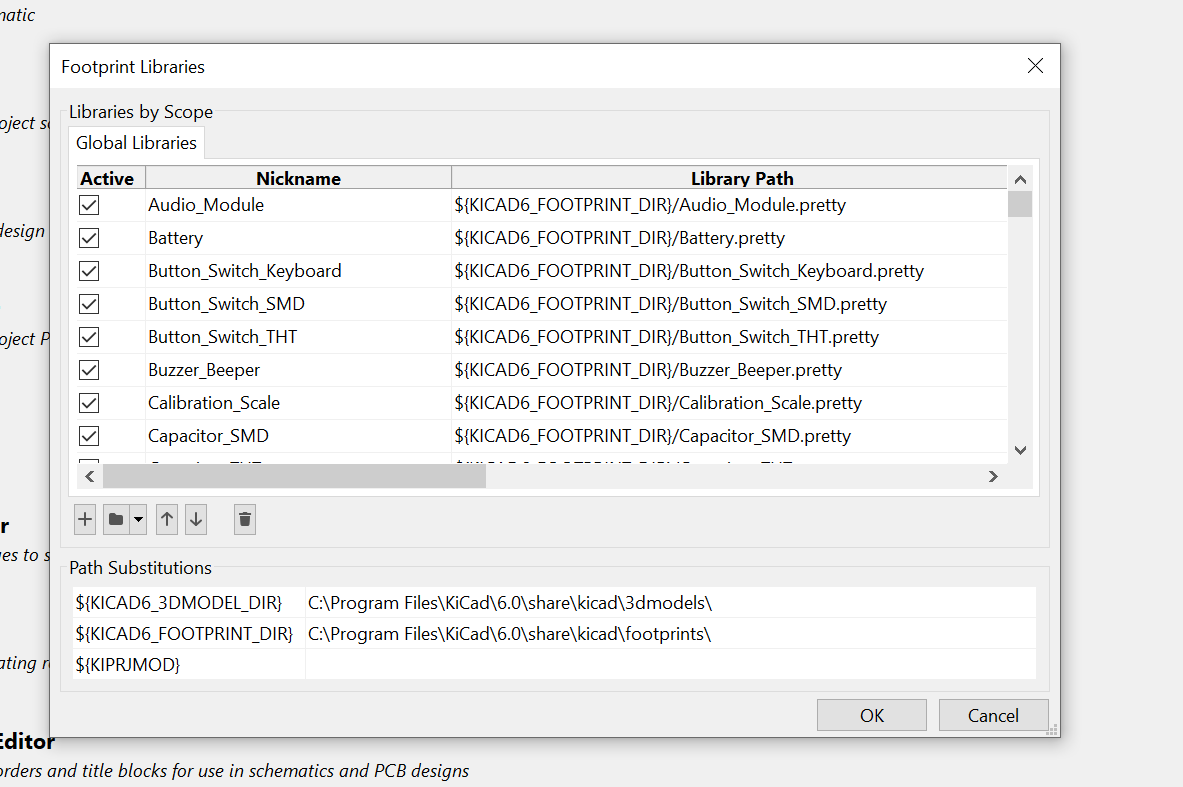
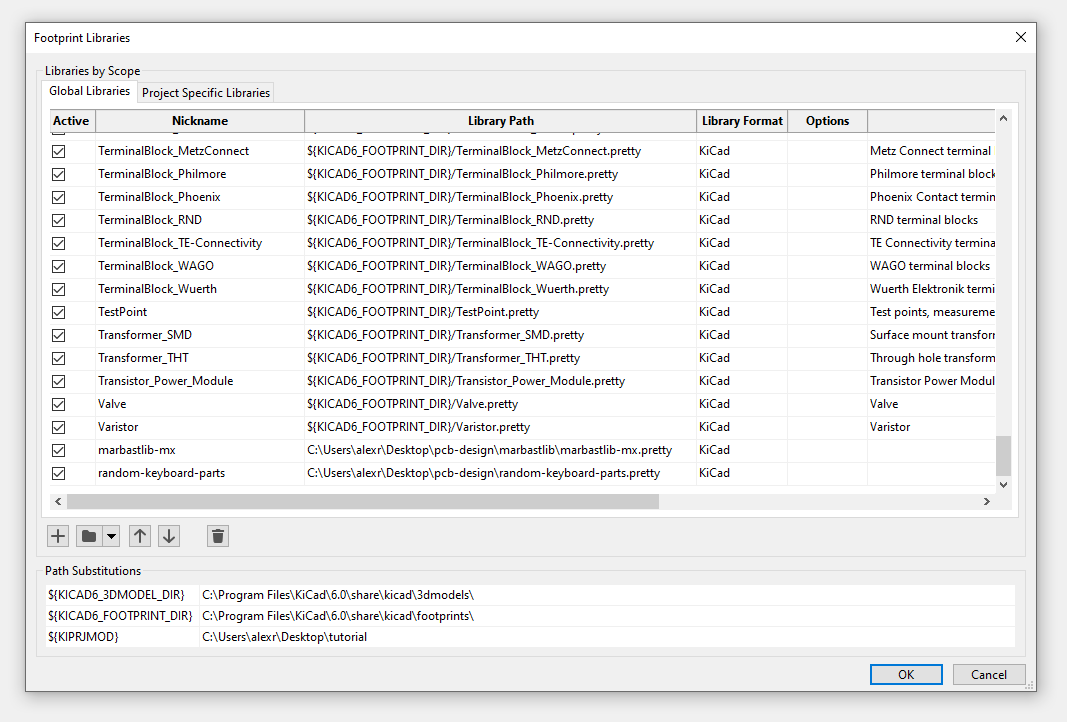
schematic setction 50% ish complete

Changed region(s): [[0.0, 0.0, 0.9897, 1.0]]

diff --git a/README.md b/README.md
@@ -7,9 +7,9 @@ I am focusing on Cherry MX type switches, however using other types should be pr
 
 This tutorial uses KiCad. It's a PCB and electronic schematic creator. Install the latest version of KiCad from this website [here](https://www.kicad.org/download). I am using version 6.0.7.
 
-A great way of saving your data, make backups, and easily swap between versions is to make a Github repository where the KiCad files will be saved on. You've most likely made an account and use Github already, but if not, make an account and [install Git](https://git-scm.com/downloads). Github also makes it easy to install libraries that we can use for KiCad.
+A great way of saving your data, make backups, and easily swap between versions is to make a Github repository where the KiCad files will be saved on. You've most likely made an account and use Github already, but if not, make an account and [install Git](https://git-scm.com/downloads). Github also makes it easy to install libraries that we use for KiCad.
 
-Make a repository , and press the `Code` button on the top right and download the zip (or you can clone it). 
+Make a repository, and press the `Code` button on the top right and download the zip (or you can clone it). 
 
 ![downloadzip](images/downloadzip.png)
 
@@ -19,7 +19,7 @@ By default, KiCad comes with it's own collection of libraries to use, but there 
 
 ![git bash](images/gitbash.png)
 
-Run the command `git submodule add https://github.com/ebastler/marbastlib/`. Marbastlib is a library for keyboard parts which we will use. You'll see that a new folder has been created. This folder contains all the files to make a keyboard pcb.
+Run the command `git submodule add https://github.com/ebastler/marbastlib/` and `git submodule add https://github.com/ai03-2725/random-keyboard-parts.pretty`. Marbastlib is a library for keyboard parts which we will use, and ai03's random keyboard parts include the connectors needed for the micro usb connector. You'll see that new folders have been created. This folder contains all the files needed for the libraies.
 
 ![submodule add](images/submodule.png)
 
@@ -34,6 +34,10 @@ Click the folder icon, navigate to the marbastlib folder, and select the `marbas
 Once you're done, close the window and go to Preferences -> Manage Symbol Libraries. This time select the `marbastlib-mx.kicad_sym` file to import.
 
 ![symbol libraries](images/symbols.png)
+
+Do the same for ai03's parts, selecting the .pretty folder for the footprints and the .lib file for the symbols.
+
+
 
 ### How to make a commit
 To save a copy on Github, you commit. To commit, you need to run these 3 commands
@@ -64,13 +68,96 @@ Create a new KiCad project (File -> New Project) and save it inside the folder w
 
 This will create 3 main files, one with a `.kicad_pro` extention, a `.kicad_pcb` extention, and a `.kicad_sch` extention. 
 
-We'll talk about all of them later, but for now open the `.kicad_sch` file. This file is the schematic of the keyboard. 
+### Commands
+
+Here is a good commands reference for the schematic editor, from Ruiqi Mao's PCB guide.
+
+```
+m: pick the component up and move it
+g: drag the component up and move it while keeping wires attached to it
+c: copy the component
+e: edit the component
+r: rotate the component
+y: mirror the component
+del: delete the component
+esc: abort!
+```
+
+Here's extra commands that we'll use.
+
+```
+a: add symbol
+w: create a wire
+p: open power menu
+ctrl + l: create a global label
+```
+
+## Placing first components
+
+Open the `.kicad_pro` file and from there open the schematic editor.
+
+![opening](images/opening.png)
+
+You can select the `.kicad_sch` from the file list or press the schematic editor symbol.
 
 ![schem opened](images/blanksch.png)
 
-To add a symbol, press `A`. A symbol is a placement where we can connect components (like resistors) to it.
-
-Start by placing the symbol for an `ATmega32-2`. Usually for bigger PCBs I would use an `ATmega32u4` instead, but the 32u2 is perfect because we don't need many ports and it's cheaper.
+Start by placing the symbol for an `ATmega32u2`. This component is a microcontroller, the chip of the keyboard, and will handle all keypresses. Usually for bigger PCBs I would use an `ATmega32u4` instead, but the 32u2 is perfect because we don't need many ports and it's cheaper.
 
 ![adding symbols](images/addingsymbols.png)
 
+Now that the microcontroller has been placed, connect the VCC pins at the top to a VCC power symbol. Open the power menu and then search for VCC. Place it near the 3 VCC pins at the top.
+
+![vcc](images/vcc.png)
+
+Connect the VCC symbol to the pins by starting a wire at the symbol and connect it to the pins, by clicking once.
+
+![vcc connected](images/connectedvcc.png)
+
+Do the same to the GND pins at the bottom of the PCB.
+
+![gnd connected](images/gnd.png)
+
+A crystal is a component in electricals that tells how fast a component is supposed to run at. Find the `Crystal_GND24_Small` in the symbols menu, and place it somewhere on the board.
+
+Wire it through 2 capacitors (`C_Small` symbol) like this. 
+
+![crystal](images/crystal.png)
+
+(Remember to rotate the crystal)
+
+Edit both `C_Small` symbols (hover over component or select and press E) and change the value to 14pF.
+
+![editing symbol](images/editsymbol.png)
+
+You'll see that the text on both capcitors changed from C_Small to 14pF.
+
+![editing values](images/editvalues.png)
+
+A global label is a function to connect two wires together anywhere on the board, and make it easier to look at. Add a global label with `Ctrl + L` at the XTAL1 pin, called XTAL1, and press `R` to rotate it while it's selected to change the orientation.
+
+![xtal1 label](images/xtal1.png)
+
+Connect another XTAL1 symbol at the crystal.
+
+![xtal1 connected at crystal](images/xtal1crystal.png)
+
+This way, you can move the crystal to wherever you want on the board, and KiCad will still know where it's supposed to be connected.
+
+Connect one XTAL2 label to the XTAL2 pin and one at the other side of the crystal. You should have this afterwards.
+
+![finished crystal](images/crystaldone.png)
+
+The crystal is complete.
+
+Decoupling capacitors are needed for each of the VCC pins, so we need 3 additional capacitors. There's a good video explaining them [here](https://www.youtube.com/watch?v=mk61DNz27FI). We're only going to need 1 bulk and 2 local capacitors for the `ATmega32u2`.
+
+![decoupling capacitors](images/decoupling.png)
+
+It's a good idea to have a reset button, in the case of failures. This needs a pullup resistor (symbol `R_Small`) to prevent misstriggers and a ground on the other side.
+
+![reset button](images/reset.png)
+
+To connect the PCB to a device, it needs to have a port to be able to connect to it. There are 2 options that I know, which is micro usb and USB-C. USB-C is more complicated and harder to do (you need to work with 15 pins whereas micro usb only uses 2 pins), so it'll be linked [here](#usb-c).
+
+We're going to use micro usb for this, so add a `Molex-`
